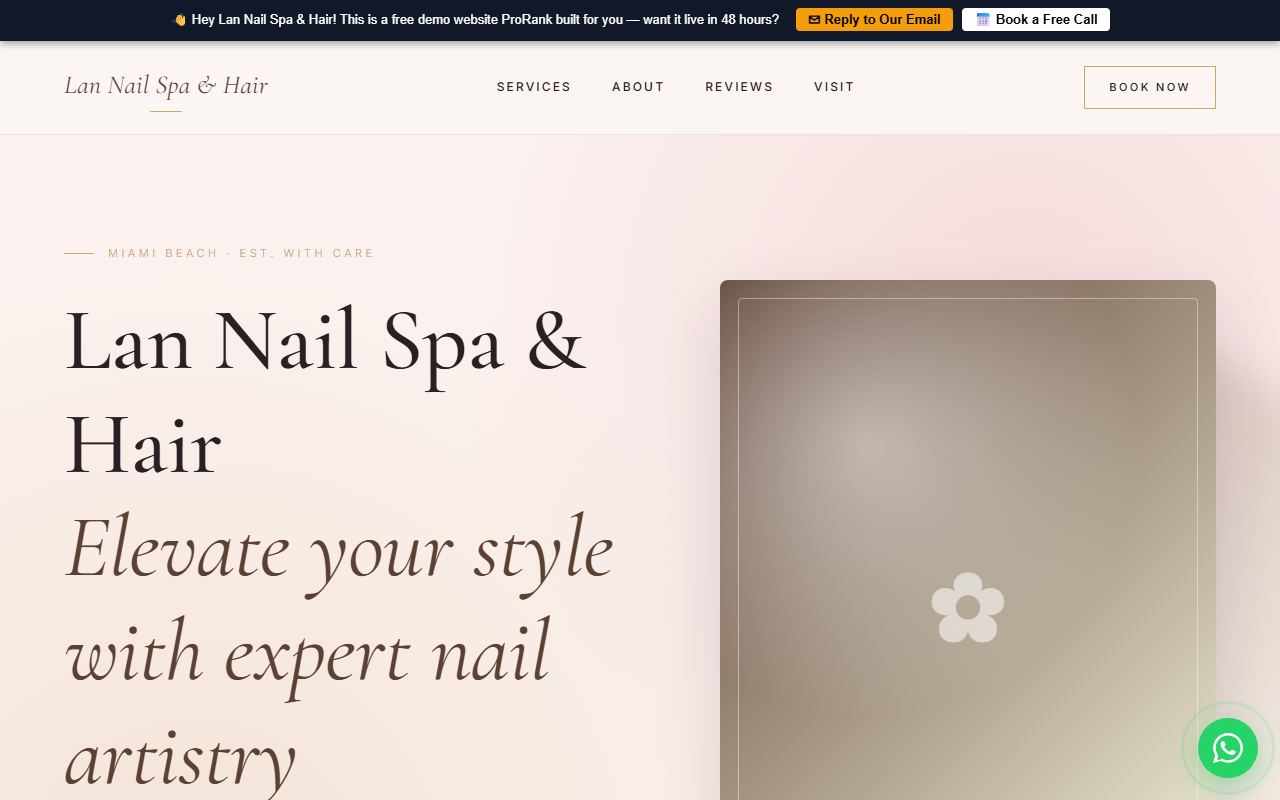
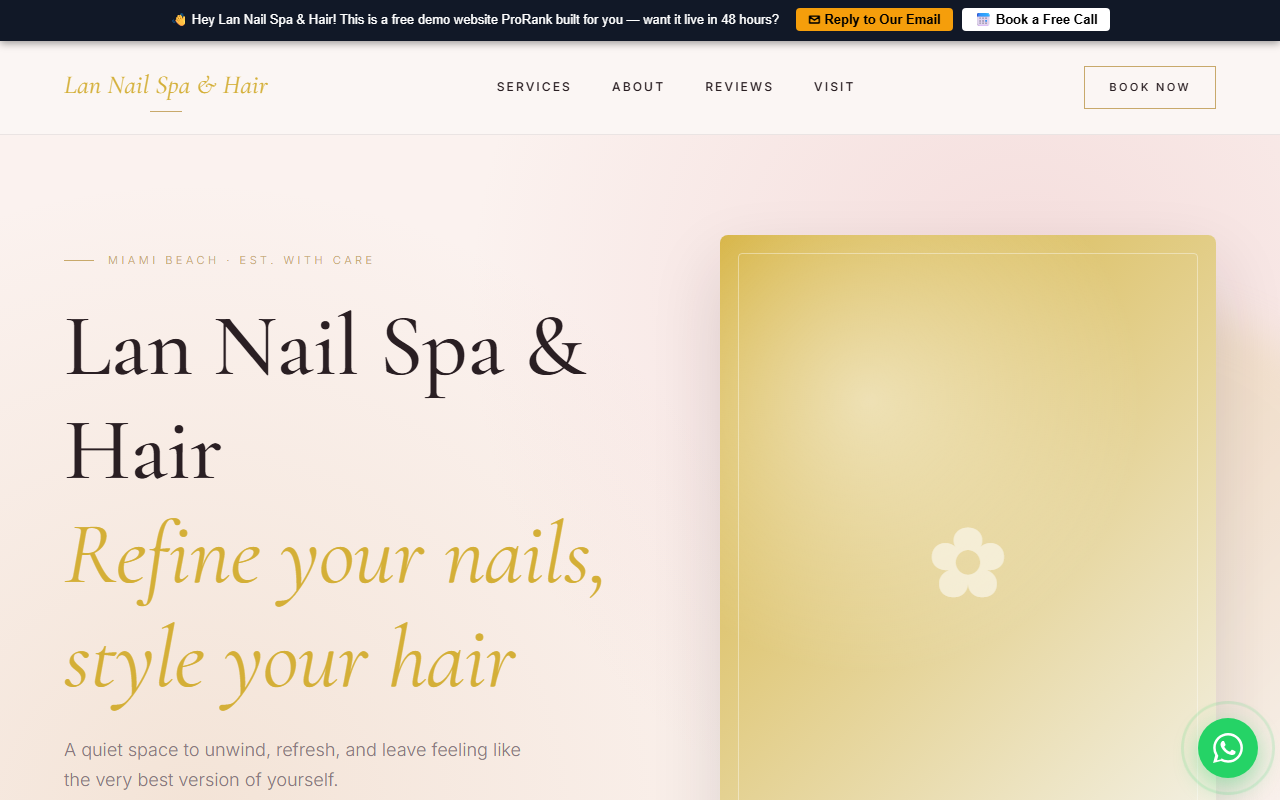
Add demo: lan-nail-spa-hair

diff --git a/lan-nail-spa-hair/index.html b/lan-nail-spa-hair/index.html
@@ -4,14 +4,14 @@
 <meta charset="UTF-8" />
 <meta name="viewport" content="width=device-width, initial-scale=1.0" />
 <title>Lan Nail Spa & Hair — Miami Beach</title>
-<meta name="description" content="Lan Nail Spa & Hair delivers premium nail services and styling in Miami Beach. Experience luxury manicures, pedicures, and expert care today." />
+<meta name="description" content="Experience premium nail art and expert hair styling at Lan Nail Spa & Hair in Miami Beach. Book your relaxing appointment today for polished looks." />
 <link rel="preconnect" href="https://fonts.googleapis.com">
 <link rel="preconnect" href="https://fonts.gstatic.com" crossorigin>
 <link href="https://fonts.googleapis.com/css2?family=Cormorant+Garamond:ital,wght@0,400;0,500;0,600;1,400&family=Inter:wght@300;400;500;600&display=swap" rel="stylesheet">
 <style>
   :root {
-    --primary: #5C4033;
-    --secondary: #F5F5DC;
+    --primary: #D4AF37;
+    --secondary: #F5F5F0;
     --blush: #fbf2ef;
     --pearl: #faf6f3;
     --ink: #2a1f23;
@@ -334,7 +334,7 @@
   <div class="hero-inner">
     <div class="hero-text">
       <div class="eyebrow">Miami Beach · Est. with care</div>
-      <h1>Lan Nail Spa & Hair<br/><em>Elevate your style with expert nail artistry</em></h1>
+      <h1>Lan Nail Spa & Hair<br/><em>Refine your nails, style your hair</em></h1>
       <p class="lede">A quiet space to unwind, refresh, and leave feeling like the very best version of yourself.</p>
       <div class="hero-actions">
         <a href="tel:+17863594637" class="btn btn-primary">Book Appointment</a>
@@ -356,19 +356,19 @@
       <div class="service-card">
         <span class="service-num">— No. 01 —</span>
         <div class="service-icon">✂</div>
-        <h3>luxury manicures</h3>
+        <h3>Luxury Nail Spa</h3>
         <p>A consultation, a fresh perspective, and a finish that's unmistakably you.</p>
       </div>
       <div class="service-card">
         <span class="service-num">— No. 02 —</span>
         <div class="service-icon">❋</div>
-        <h3>express pedicures</h3>
+        <h3>Custom Hair Styling</h3>
         <p>Premium products, gentle technique, and results that hold up beautifully.</p>
       </div>
       <div class="service-card">
         <span class="service-num">— No. 03 —</span>
         <div class="service-icon">✿</div>
-        <h3>gel polish</h3>
+        <h3>Relaxing Facials</h3>
         <p>An hour just for you — to relax, refresh, and walk out glowing.</p>
       </div>
     </div>
